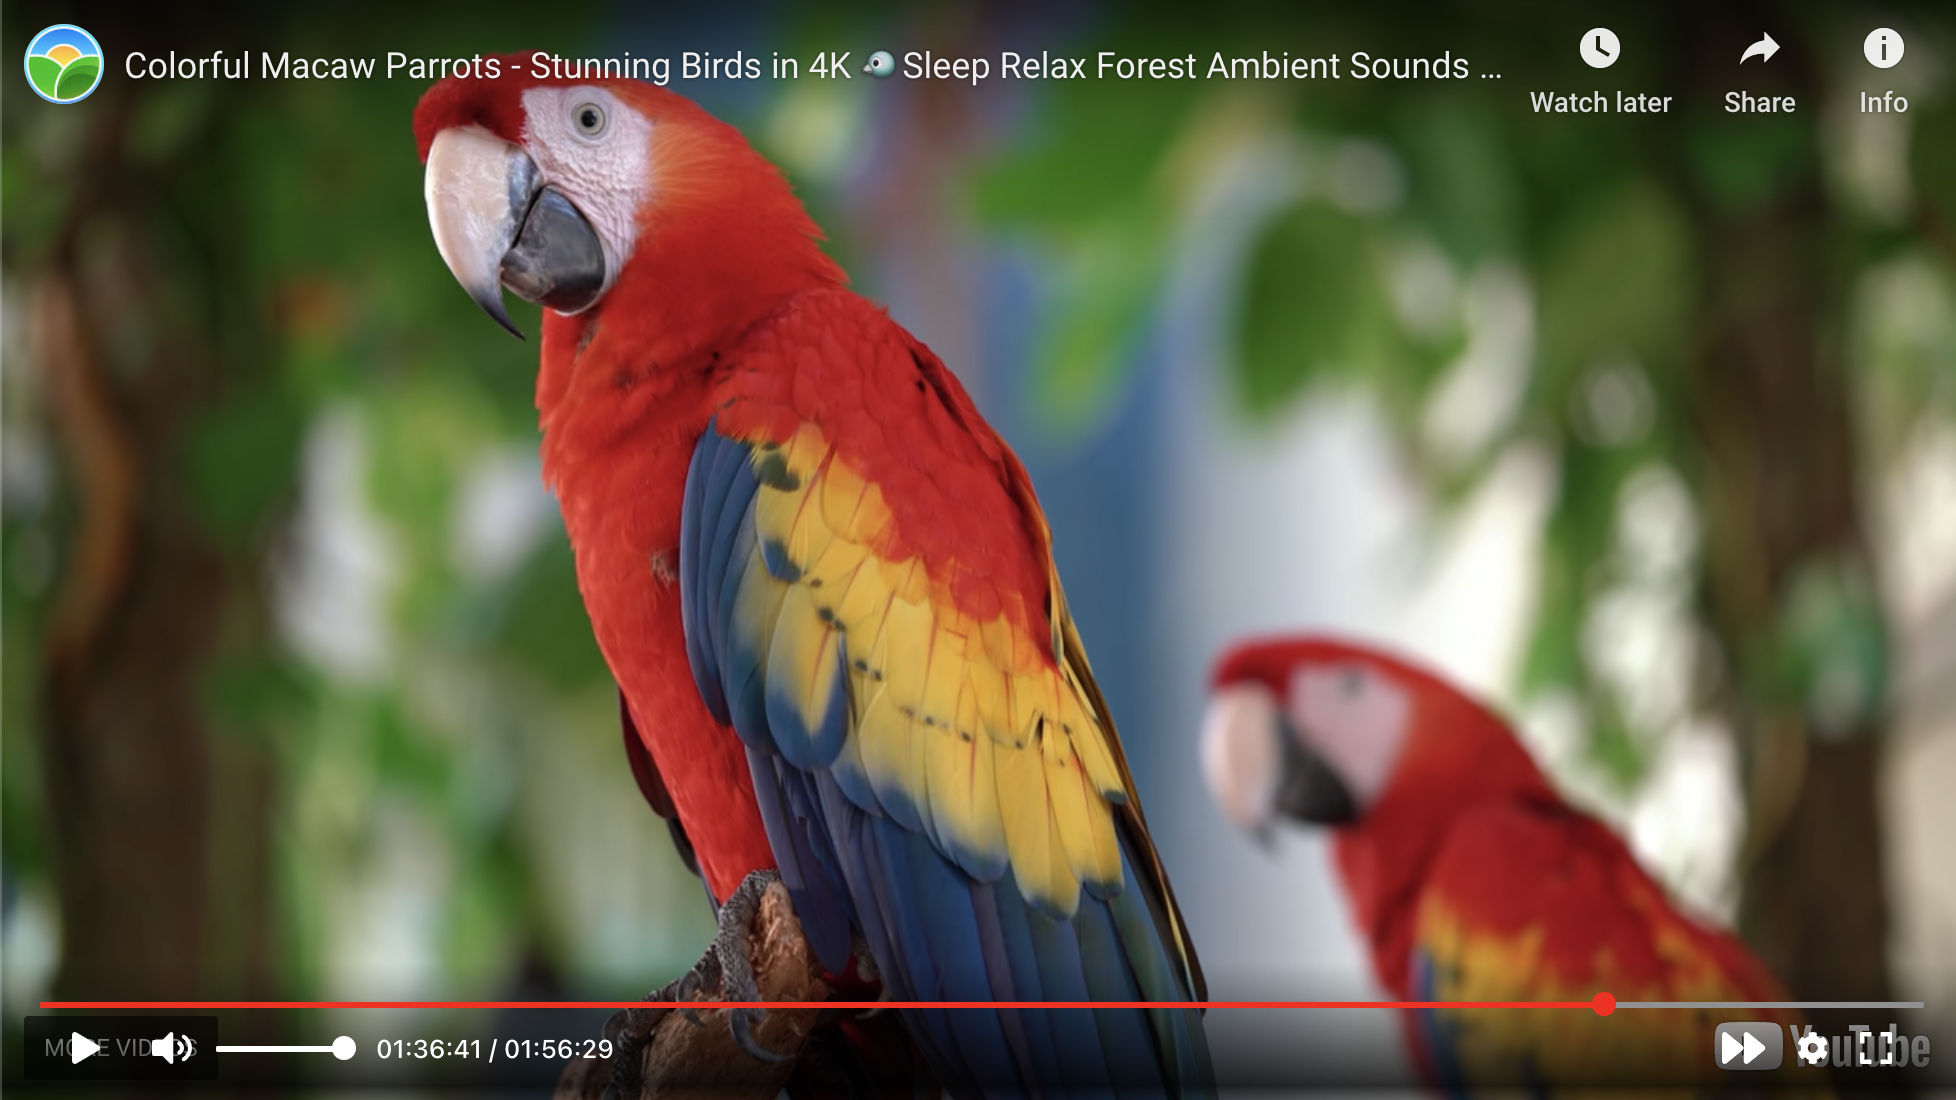
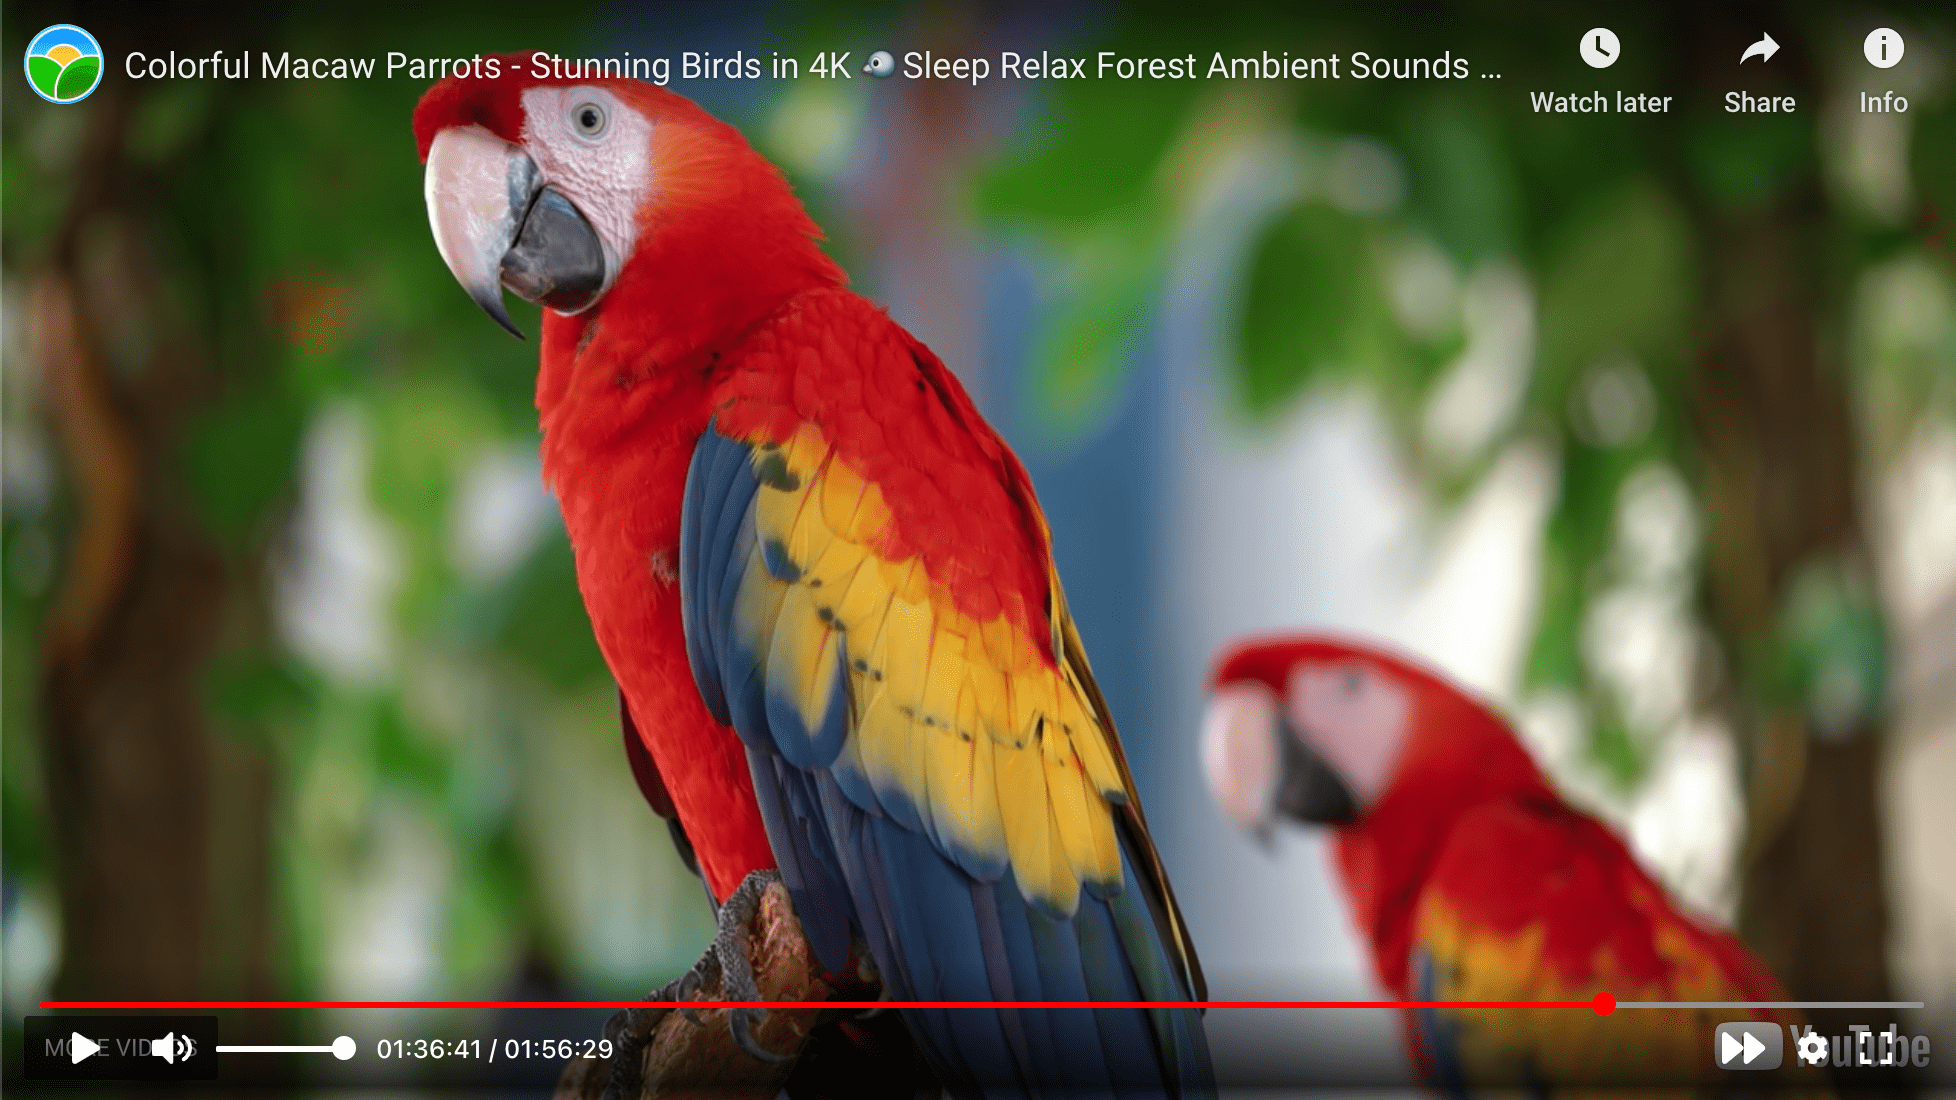
Style improvements

diff --git a/src/index.tsx b/src/index.tsx
@@ -22,6 +22,7 @@ import chevron_up_solid from "./icons/chevron-up-solid.svg";
 import volume_mute_solid from "./icons/volume-mute-solid.svg";
 import volume_up_solid from "./icons/volume-up-solid.svg";
 import volume_down_solid from "./icons/volume-down-solid.svg";
+import { Icon } from "./Icon";
 
 interface VideoPlayerProps {
   videoId: string;
@@ -261,6 +262,8 @@ const VideoPlayer: React.FC<VideoPlayerProps> = (props: VideoPlayerProps) => {
       var youtubePlayer = (player as any).internalPlayer;
       var duration = await youtubePlayer.getDuration();
       youtubePlayer.seekTo((val / 100) * duration);
+      setTime((val / 100) * duration);
+      setFormatedTime(formatTime((val / 100) * duration) + " / " + formatTime(duration));
     }
   };
 
@@ -356,7 +359,7 @@ const VideoPlayer: React.FC<VideoPlayerProps> = (props: VideoPlayerProps) => {
     timeoutRef.current = setTimeout(() => {
       timeoutRef.current = null;
       setShowControls(false);
-    }, 50000000);
+    }, 5000);
   }, [showControls, hoverControls]);
 
   //################## Handle youtube events ##################
@@ -596,26 +599,17 @@ const VideoPlayer: React.FC<VideoPlayerProps> = (props: VideoPlayerProps) => {
                   onMouseEnter={enterVolumeArea}
                   onMouseLeave={leaveVolumeArea}
                 >
-                  <ToggleButton
+                  <Icon
                     style={{ width: "1em" }}
-                    onToggle={() => console.log("")}
-                    onImage={
+                    icon={
                       volume == 0
                         ? volume_mute_solid
                         : volume < 50
                         ? volume_down_solid
                         : volume_up_solid
                     }
-                    offImage={
-                      volume == 0
-                        ? volume_mute_solid
-                        : volume < 50
-                        ? volume_down_solid
-                        : volume_up_solid
-                    }
-                    value={isPlaying}
                   />
-                  {showVolume && (
+                  {(showVolume || isMobile) && (
                     <div
                       style={{
                         width: "4em",

diff --git a/src/Icon.tsx b/src/Icon.tsx
@@ -1,0 +1,19 @@
+import * as React from "react";
+import "./styles/toggleButton.css";
+
+interface Props {
+  icon: string;
+  style: object;
+}
+
+export const Icon: React.FC<Props> = (props: Props) => {
+  return (
+    <div className="toggleButton" style={props.style}>
+      <img
+        src={props.icon}
+        alt="icon"
+        className="toggleButtonImage"
+      />
+    </div>
+  );
+};

diff --git a/src/styles/videoPlayer.css b/src/styles/videoPlayer.css
@@ -133,12 +133,14 @@
 }
 
 .control-shadow {
-  background: rgba(0, 0, 0, 0.5);
   background: linear-gradient(
-    to top,
-    rgba(0, 0, 0, 0.5),
-    rgba(0, 0, 0, 0.8) 13%,
-    rgba(0, 0, 0, 0)
+    0deg,
+    rgb(0 0 0 / 0.7) 0%,
+    rgba(0, 0, 0, 0) 100%
   );
   padding: 20px;
+}
+
+.fullscreen{
+  background-color: black;
 }

diff --git a/src/styles/progressBar.css b/src/styles/progressBar.css
@@ -39,6 +39,7 @@
   width: 100vw;
   height: 100vh;
   z-index: 100000;
+  cursor: pointer;
 }
 
 *.unselectable {

diff --git a/README.md b/README.md
@@ -24,7 +24,7 @@ This React component wraps custom controls around a YouTube video for better inf
 
 ## Preview
 
-![preview](preview.png#1)
+![preview](preview.png#2)
 
 ## Install
 
